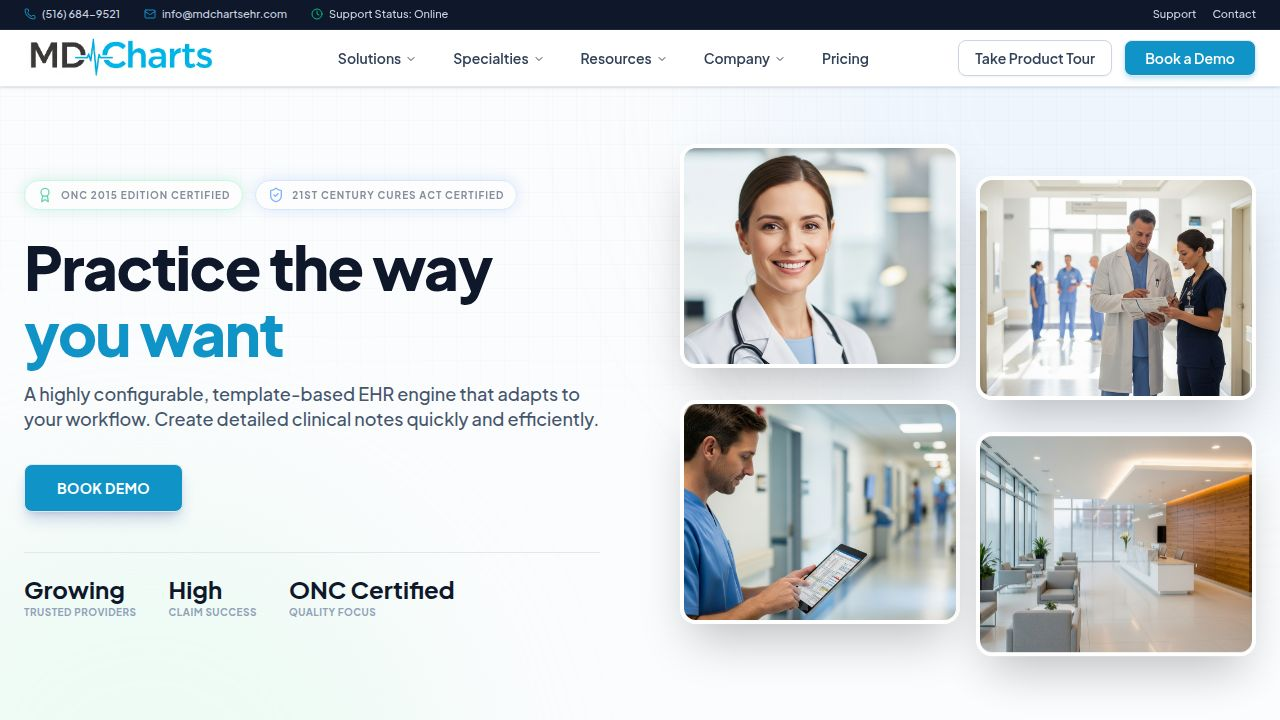
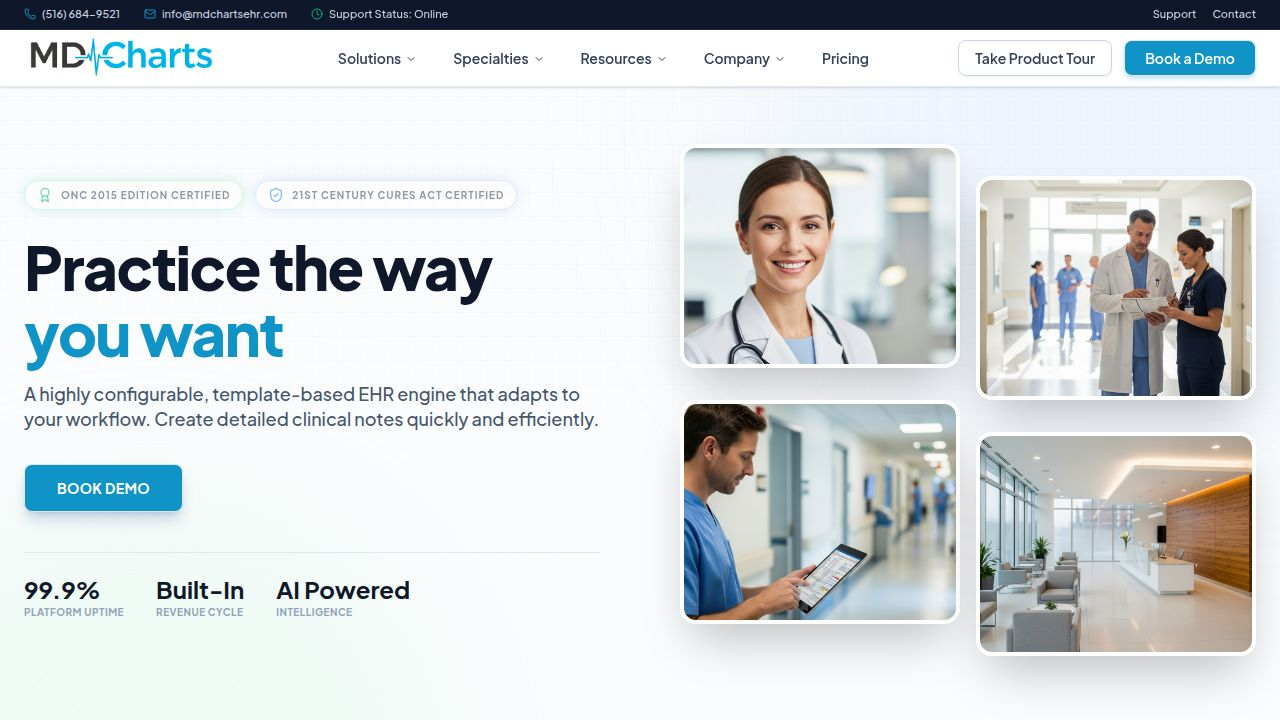
Update hero section stats to reflect platform uptime and AI capabilities
Modify the Hero component to update the displayed statistics, changing "Growing" to "99.9% Platform Uptime", "High" to "Built-In Revenue Cycle", and "ONC Certified" to "AI Powered Intelligence".

Replit-Commit-Author: Agent
Replit-Commit-Session-Id: 06d38522-12af-48e8-88b8-949e4e4995fc
Replit-Commit-Checkpoint-Type: full_checkpoint
Replit-Commit-Event-Id: 92c2a0d9-b5f3-4194-8f94-6fe1db7b6e4b
Replit-Commit-Screenshot-Url: https://storage.googleapis.com/screenshot-production-us-central1/b5dfba87-a687-457e-b0c4-84a10ccf5877/06d38522-12af-48e8-88b8-949e4e4995fc/2SdF8vQ
Replit-Helium-Checkpoint-Created: true

Changed region(s): [[0.0, 0.7944, 0.375, 0.8556]]

diff --git a/client/src/components/Hero.tsx b/client/src/components/Hero.tsx
@@ -71,9 +71,9 @@ export function Hero() {
               {/* Clean Stats Row - Integrated */}
               <div className="flex items-center gap-8 border-t border-slate-200 pt-6">
                 {[
-                  { label: "Trusted Providers", value: "Growing" },
-                  { label: "Claim Success", value: "High" },
-                  { label: "Quality Focus", value: "ONC Certified" },
+                  { label: "Platform Uptime", value: "99.9%" },
+                  { label: "Revenue Cycle", value: "Built-In" },
+                  { label: "Intelligence", value: "AI Powered" },
                 ].map((stat, i) => (
                   <div key={i} className="flex flex-col">
                     <span className="text-2xl font-bold text-slate-900 leading-none">{stat.value}</span>
